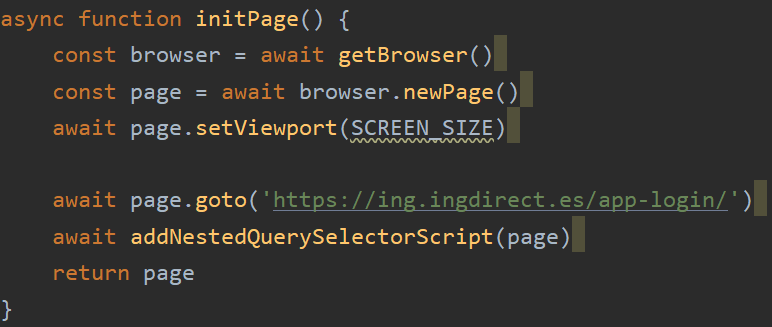
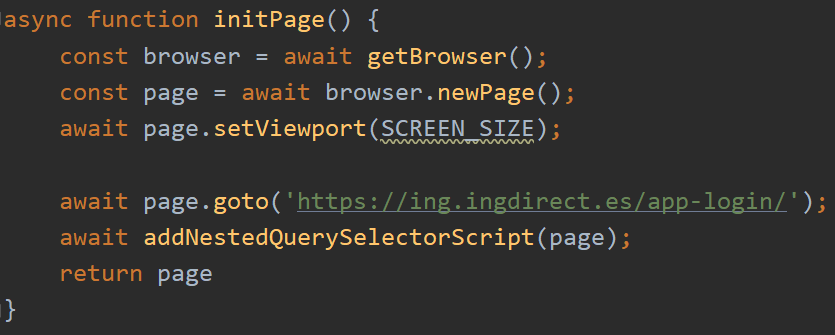
login process - fix see more

diff --git a/lib/use-cases/ing-report.js b/lib/use-cases/ing-report.js
@@ -106,12 +106,12 @@ async function addNestedQuerySelectorScript(page) {
 }
 
 async function initPage() {
-    const browser = await getBrowser()
-    const page = await browser.newPage()
-    await page.setViewport(SCREEN_SIZE)
+    const browser = await getBrowser();
+    const page = await browser.newPage();
+    await page.setViewport(SCREEN_SIZE);
 
-    await page.goto('https://ing.ingdirect.es/app-login/')
-    await addNestedQuerySelectorScript(page)
+    await page.goto('https://ing.ingdirect.es/app-login/');
+    await addNestedQuerySelectorScript(page);
     return page
 }
 

diff --git a/README.md b/README.md
@@ -37,7 +37,7 @@ Ya en el dashboard principal, aprovechamos para guardanos el balance actual.
 
 <img src="./assets/dashboard_principal.png" width="500" height="400">
 
-Para entrar detalle de los gastos, sólo teenemos que hacer click en el mes actual de la sección "Mis gastos".
+Para entrar detalle de los gastos tenemos que hacer click en el mes actual, que aparece en la sección "Mis gastos".
 Una vez dentro, realizaremos una captura del gráfico por categorías.
 
 <img src="./assets/ejemplo_gastos.png" width="500" height="250">
@@ -130,7 +130,8 @@ para cargarla en el navegador es:
     page.addScriptTag({path: path.join(process.cwd(), 'node_modules/query-selector-shadow-dom/dist/querySelectorShadowDom.js')});
 ```
 
-A partir de aquí ya tenemos nuestra página inicializada y correctamente configurada.
+A partir de aquí ya tenemos nuestra página inicializada y correctamente configurada. Hay que tener cuidado ya que si a lo largo del proceso,
+decidiéramos navegar a otra URL, tendríamos que cargar otra vez el script.
 
 ### Login: La función doLogin
 Ahora ya estamos frente al formulario de login en el que tenemos que insertar nuestros datos personales y pulsar el botón de "Entrar".
@@ -184,8 +185,8 @@ corresponden a cada número para luego pulsarlos. En este caso, tenemos que puls
 
 En la función **fillSecurityCode** está la lógica que realiza este paso. Una vez ejecutado, ya hemos completado la fase de login y pasamos al dashboard principal de la web.
  
-**IMPORTANTE:** Cómo comentaba anteriormente sólo la parte del login está hecha con el framework Polymer, pero no el dashboard prinpipal. Esto implica que ya no tenemos que 
-preocuparnos por el shadow DOM y el acceso a los elementos se vuelve más directo.
+**IMPORTANTE:** Cómo comentaba anteriormente sólo la parte del login está hecha con el framework Polymer, pero no el dashboard principal por lo que no tenemos que 
+preocuparnos por el shadow DOM y en consecuencia, el acceso a los elementos se vuelve más directo.
 
 
 ### Aceptar las cookies: La función acceptCookies
